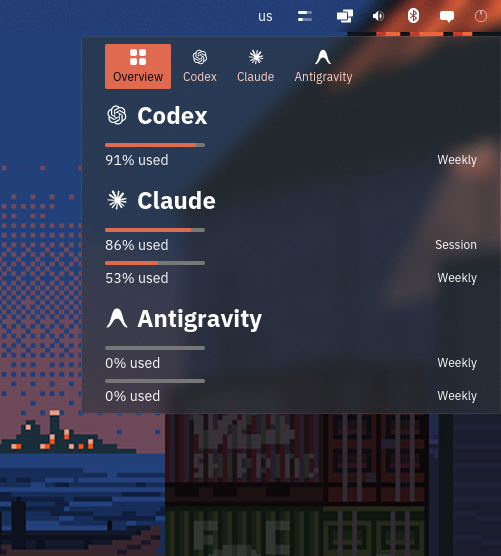
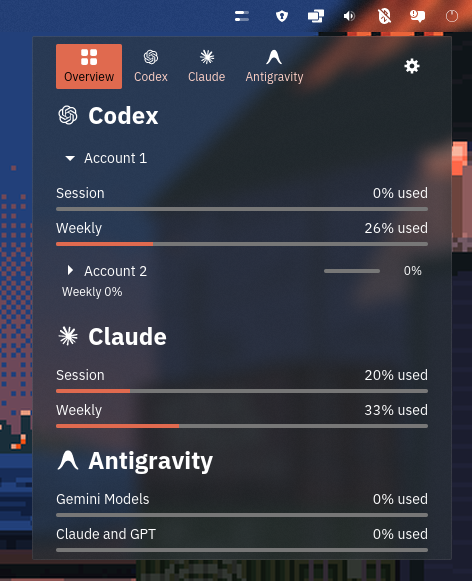
Update screenshots for 0.2.0

diff --git a/README.md b/README.md
@@ -6,7 +6,7 @@ This is a third-party project. It is not official COSMIC software and is not end
 
 ![Applet popup showing Claude usage windows, pace, and cost and token counts](docs/screenshot.png)
 
-![Overview tab showing provider usage summaries](docs/screenshot-overview.png)
+![Overview tab showing each provider, with one Codex account expanded](docs/screenshot-overview.png)
 
 Install the COSMIC desktop, Rust, `just`, and the CodexBar CLI. Follow the [build and installation guide](docs/install.md). See [account and display settings](docs/configuration.md) to configure the applet.
 
